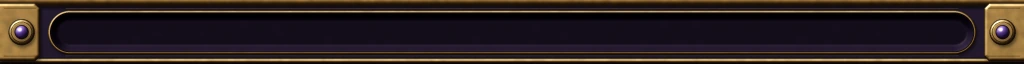
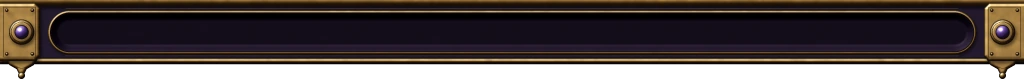
A crowded hand gives up its art, not its words; the rail's end blocks hang a cast drop
Past six Tricks every card in the fan lifts its name plate, type line and
rules panel up into its art window, so the rules get a panel 164u tall and
the names are fitted to 21u (11 px at 1280) -- two lines when two read
bigger. The rail's end blocks carry a beaded face, corner studs and a brass
pendant hung below the foot.

diff --git a/game/src/scenes/combat.css b/game/src/scenes/combat.css
@@ -2145,6 +2145,29 @@
 .cb-handhost.kit-cards .mm-hand.is-crowded .mm-card[data-rarity][data-type][data-uid].is-fan-last:not(.is-hover):not(.is-selected):not(.is-dragging):not(.is-aiming):not(.is-hero) .mm-card__name { text-align: center; padding-left: calc(12 * var(--u)); padding-right: calc(12 * var(--u)); }
 .cb-handhost.kit-cards .mm-hand.is-crowded .mm-card[data-rarity][data-type][data-uid].is-fan-last:not(.is-hover):not(.is-selected):not(.is-dragging):not(.is-aiming):not(.is-hero) .mm-card__type { justify-content: center; padding-left: 0; }
 .cb-handhost.kit-cards .mm-hand.is-crowded .mm-card[data-rarity][data-type][data-uid].is-fan-last:not(.is-hover):not(.is-selected):not(.is-dragging):not(.is-aiming):not(.is-hero) .mm-card__rules { left: calc(12 * var(--u)); right: calc(12 * var(--u)); align-items: center; text-align: center; top: calc(173 * var(--u)); bottom: calc(20 * var(--u)); padding: 0 calc(8 * var(--u)); }
+/* A CROWDED HAND GIVES UP ITS ART, NOT ITS WORDS (round 20). Past six Tricks
+   the fan's cards overlap, and the only thing a card can spend on its name
+   and its rules is its own height: at 1280 a nine-card hand set its names
+   at 8 px and its longest rule at 8.6 px, in a panel that started where it
+   does on a whole card, under a full art window. So while the hand is
+   crowded every card in the fan -- the last one too, so the row reads as one
+   row -- lifts its face up INTO the art window: the name plate stands 40u
+   higher over the art, the rules panel and its type line rise with it, and
+   the words get a panel 164u tall instead of 123u. The art keeps its top two
+   thirds, cost medallion and all, and a card lifted out of the fan (hovered,
+   focused, held, played) lays out whole again. ui/hand.js fits the names
+   and the rules to the bigger boxes. */
+.cb-handhost.kit-cards .mm-hand.is-crowded .mm-card[data-rarity][data-type][data-uid]:not(.is-hover):not(.is-selected):not(.is-dragging):not(.is-aiming):not(.is-hero) .mm-card__banner { top: auto; bottom: calc(200 * var(--u)); }
+.cb-handhost.kit-cards .mm-hand.is-crowded .mm-card[data-rarity][data-type][data-uid]:not(.is-fan-last):not(.is-hover):not(.is-selected):not(.is-dragging):not(.is-aiming):not(.is-hero) .mm-card__banner { bottom: calc(200 * var(--u)); }
+.cb-handhost.kit-cards .mm-hand.is-crowded .mm-card[data-rarity][data-type][data-uid]:not(.is-hover):not(.is-selected):not(.is-dragging):not(.is-aiming):not(.is-hero) .mm-card__type { top: calc(105 * var(--u)); }
+.cb-handhost.kit-cards .mm-hand.is-crowded .mm-card[data-rarity][data-type][data-uid]:not(.is-hover):not(.is-selected):not(.is-dragging):not(.is-aiming):not(.is-hero) .mm-card__art { clip-path: inset(0 0 calc(22 * var(--u)) 0); }
+.cb-handhost.kit-cards .mm-hand.is-crowded .mm-card[data-rarity][data-type][data-uid]:not(.is-hover):not(.is-selected):not(.is-dragging):not(.is-aiming):not(.is-hero) .mm-card__artline { top: calc(103 * var(--u)); }
+.cb-handhost.kit-cards .mm-hand.is-crowded .mm-card[data-rarity][data-type][data-uid]:not(.is-hover):not(.is-selected):not(.is-dragging):not(.is-aiming):not(.is-hero) .mm-card__face::before { top: calc(102 * var(--u)); }
+.cb-handhost.kit-cards .mm-hand.is-crowded .mm-card[data-rarity][data-type][data-uid]:not(.is-hover):not(.is-selected):not(.is-dragging):not(.is-aiming):not(.is-hero) .mm-card__face::after { top: calc(105 * var(--u)); }
+.cb-handhost.kit-cards .mm-hand.is-crowded .mm-card[data-rarity][data-type][data-uid]:not(.is-hover):not(.is-selected):not(.is-dragging):not(.is-aiming):not(.is-hero) .mm-card__rules { top: calc(131 * var(--u)); bottom: calc(17 * var(--u)); }
+.cb-handhost.kit-cards .mm-hand.is-crowded .mm-card[data-rarity][data-type][data-uid]:not(.is-fan-last):not(.is-hover):not(.is-selected):not(.is-dragging):not(.is-aiming):not(.is-hero) .mm-card__type { font-size: calc(clamp(10.5, (var(--strip) - 46) / var(--type-em, 6), 16) * var(--u)); }
+.cb-handhost.kit-cards .mm-hand.is-crowded .mm-card[data-rarity][data-type][data-uid].is-fan-last:not(.is-hover):not(.is-selected):not(.is-dragging):not(.is-aiming):not(.is-hero) .mm-card__banner { height: calc(38 * var(--u)); }
+.cb-handhost.kit-cards .mm-hand.is-crowded .mm-card[data-rarity][data-type][data-uid].is-fan-last:not(.is-hover):not(.is-selected):not(.is-dragging):not(.is-aiming):not(.is-hero) .mm-card__rules { top: calc(133 * var(--u)); bottom: calc(20 * var(--u)); }
 /* ── the hand never hides the hit ──────────────────────────────────────────
    The played card is presented at 0.62 of the board height (ui/hand.js TUNE
    .playY) which puts a 226x314 card straight across the creature band; at the

diff --git a/game/src/ui/hand.js b/game/src/ui/hand.js
@@ -1041,11 +1041,17 @@ export class Hand {
        and a crowded fan's names are fitted over a narrower band — nothing
        reaches for 17.5u when its neighbour cannot — so the row reads as one
        row. CardView#fitName caps the wrap at two lines either way. */
+    /* ROUND 20: a crowded card lifts its face into its art window
+       (scenes/combat.css, "A CROWDED HAND GIVES UP ITS ART"), so its rules
+       panel is 164u tall where it was 123u and its name plate may grow up
+       over the art. The boxes here follow: the rules fit 144u of height, and
+       the names are fitted up to 21u -- 11 px on the Deck's 1280 -- where
+       round 6 held them to 15.5u (8 px) for want of room. */
     if (F.crowded) {
       const strip = 224 * Math.min(1, F.step / F.cw);
       for (const s of this.slots) {
-        s.view.fitRules?.(s === last ? 170 : strip - 38, 104, { lo: 12.5 });
-        if (s !== last) s.view.fitName?.(strip - 19, { hi: 15.5 });
+        s.view.fitRules?.(s === last ? 170 : strip - 38, s === last ? 128 : 144, { lo: 12.5, hi: 23 });
+        if (s !== last) s.view.fitName?.(strip - 19, { lo: 12, hi: 21 });
       }
     }
 

diff --git a/game/src/ui/card.js b/game/src/ui/card.js
@@ -446,8 +446,14 @@ export class CardView {
       for (let f = hi; f >= floor; f -= 0.5) if (lines(f, W) <= maxLines) return f;
       return 0;
     };
-    let n = 1, f = largest(1, 14);
-    if (!f) { n = 2; f = largest(2, lo) || lo; }
+    /* ROUND 20: two lines when two lines read BIGGER. A crowded fan's plate
+       is the strip a neighbour leaves showing, and a name squeezed onto one
+       line of it came out at 14u -- 8 px on the Deck -- where the same name
+       broken in two stood a fifth larger: the plate grows up over the art
+       now (scenes/combat.css), so the second line costs the words nothing. */
+    const f1 = largest(1, lo), f2 = largest(2, lo);
+    let n = 1, f = f1;
+    if (!f1 || (f2 && f2 >= f1 * 1.2)) { n = 2; f = f2 || lo; }
     this._nameFitKey = key;
     this.el.style.setProperty('--name-fit', String(f));
     this.el.style.setProperty('--name-lines', String(n));

diff --git a/game/src/ui/hud.css b/game/src/ui/hud.css
@@ -30,8 +30,11 @@
      channel, parted by turned brass mullions and, between groups, by a cast
      boss -- never on plates of their own. */
   border: 0 solid transparent;
-  border-image: url("../../assets/ui/kit/hw-rail.webp") 26 72 fill /
-    calc(var(--hud-h) * 26 / 64) calc(var(--hud-h) * 72 / 64) stretch;
+  /* the picture is 80 tall: the rail's 64, and under it the 16 its end
+     blocks' cast drops hang in, laid out below the box (the outset) */
+  border-image: url("../../assets/ui/kit/hw-rail.webp") 26 72 42 72 fill /
+    calc(var(--hud-h) * 26 / 64) calc(var(--hud-h) * 72 / 64) calc(var(--hud-h) * 42 / 64) /
+    0 0 calc(var(--hud-h) * 16 / 64) 0 stretch;
   background: none;
   box-shadow: 0 10px 16px -6px rgba(0, 0, 0, .92), 0 3px 4px -1px rgba(0, 0, 0, .7);
 }

diff --git a/tools/prep_ui_hardware.py b/tools/prep_ui_hardware.py
@@ -40,9 +40,18 @@ outline) so the hardware is the same metal as the rails and the medallions:
                                  under it, outlined in the samples' dark ink.
               hw-well.webp       the plate a painted object sits in: a velvet
                                  hollow sunk in a studded brass bezel
+  RAIL        hw-rail.webp       the run strip as ONE carved object (round 20):
+  (round 20)                     brass mouldings, a plate-enamel face, one
+                                 channel sunk the length of it, cast end
+                                 blocks with a cabochon boss and a drop
+              hw-mullion.webp    a turned brass bar parting two readouts in
+                                 the channel
+              hw-tray.webp       the drawer a folded group lets down under
+                                 the rail
 
     python tools/prep_ui_hardware.py                # everything
     python tools/prep_ui_hardware.py --only objects # one group while tuning
+    python tools/prep_ui_hardware.py --only rail    # the run rail's pieces
     python tools/prep_ui_hardware.py --sheet        # + a contact sheet in shots/
 """
 import argparse
@@ -530,10 +539,18 @@ def hw_rail():
     size up), and the channel ends round against it. A lighter moulding runs
     under the face; the rail's shadow is the kit's.
 
-    1024x64, a 9-slice for `.mm-hud`'s border-image: 26 top, 26 bottom,
-    72 each end; the middle runs uniform along x so it stretches clean."""
-    W, H = 1024, 64
-    p = Pic(seed=40, n=W, h=H)
+    Under each end block a cast brass DROP hangs below the rail's foot -- a
+    pendant with a turned knob, the way a carved rail's ends are finished --
+    so the strip reads as a length of something with ends, not as the top
+    edge of the page.
+
+    1024x80: the rail is the top 64, the drops hang in the 16 under it. A
+    9-slice for `.mm-hud`'s border-image: 26 top, 42 bottom (16 of it laid
+    out BELOW the box with border-image-outset), 72 each end; the middle runs
+    uniform along x so it stretches clean."""
+    W, H0, DROP = 1024, 64, 16
+    p = Pic(seed=40, n=W, h=H0 + DROP)
+    H = H0
     e = 72                                        # the end blocks' slice
     # the face, the whole length, in the plates' enamel over a brass carcass
     p.part(R(0, 0, W, H), "brass", bevel=2.2, shadow=0, ink=0)
@@ -559,11 +576,20 @@ def hw_rail():
             blk = [(0, 3), (bx1 - c, 3), (bx1, 3 + c), (bx1, H - 3 - c), (bx1 - c, H - 3), (0, H - 3)]
         else:
             blk = [(bx0 + c, 3), (W, 3), (W, H - 3), (bx0 + c, H - 3), (bx0, H - 3 - c), (bx0, 3 + c)]
-        p.part(P(blk), "brass", bevel=3.6, shadow=.55)
         cx = (bx0 + bx1) / 2 + (1.5 if side == 0 else -1.5)
-        p.ink([(bx0 + 4, 8), (bx1 - 4, 8)], w=.8, alpha=.45)
-        p.ink([(bx0 + 4, H - 8), (bx1 - 4, H - 8)], w=.8, alpha=.45)
-        p.part(E(cx, H / 2, 13), "brass", bevel=4, shadow=.5)
+        # the drop under the block: a pendant with a knob, cast in one with it
+        pend = [(cx - 16, H - 5), (cx + 16, H - 5), (cx + 12, H + 1), (cx + 5, H + 5), (cx + 2.5, H + 10), (cx - 2.5, H + 10), (cx - 5, H + 5), (cx - 12, H + 1)]
+        p.part(P(pend), "brass", bevel=3.2, shadow=.6)
+        p.ink([(cx - 9, H + 1.5), (cx, H + 4.5), (cx + 9, H + 1.5)], w=.8, alpha=.5)
+        p.part(E(cx, H + 11.5, 3.3), "brass", prof="sphere", shadow=.55)
+        p.part(P(blk), "brass", bevel=3.6, shadow=.55)
+        # a bead engraved round the block's face, a stud in each corner
+        ix0, ix1 = (bx0 + 3.5, bx1 - 4.5) if side == 0 else (bx0 + 4.5, bx1 - 3.5)
+        p.ink([(ix0, 7), (ix1, 7), (ix1, H - 7), (ix0, H - 7)], w=.8, alpha=.5, closed=True)
+        for sx in (ix0 + 3.2, ix1 - 3.2):
+            for sy in (10.2, H - 10.2):
+                p.part(E(sx, sy, 1.7), "brass", prof="sphere", shadow=.35)
+        p.part(E(cx, H / 2, 12.5), "brass", bevel=4, shadow=.5)
         p.ink(arc_pts(cx, H / 2, 10.2, 10.2, 0, 360, 50), w=.9, alpha=.6)
         p.part(E(cx, H / 2, 7), ("#140a22", "#4b2f78", "#b393ea"), prof="sphere", gloss=.85, power=42, shadow=.35)
         p.paint(E(cx - 2.2, H / 2 - 2.6, 2.2, 1.5), "#ffffff", .7, blur=.4)
